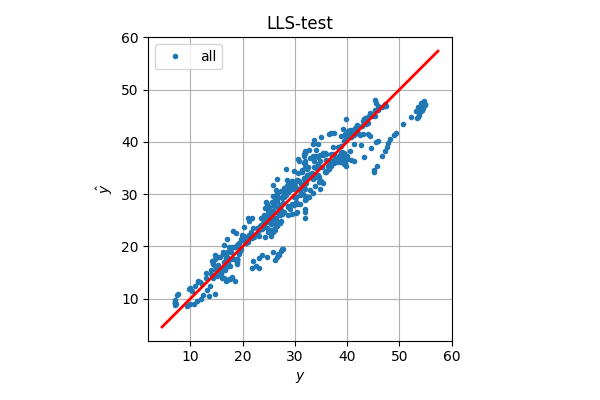
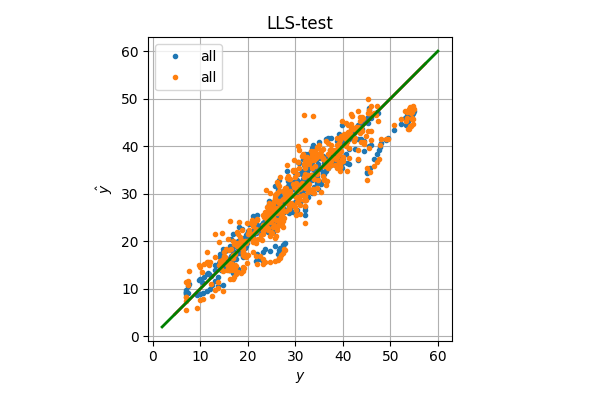
update plotregressionline

diff --git a/LAB01/sub/regression.py b/LAB01/sub/regression.py
@@ -8,8 +8,11 @@ def euclidean_distance(p, q):
   dist = np.sqrt(np.sum(np.square(p - q)))
   return dist
 
+def denormalize(y, sy, my):
+    return y*sy+my
+
 class regression:
-    def __init__(self, X, y, Ntr):
+    def __init__(self, X, y, Ntr, sy, my):
         self.Np = y.shape[0] 
         self.Ntr = Ntr
         self.Nte = self.Np - self.Ntr
@@ -21,6 +24,8 @@ class regression:
         self.y_tr=y[0:Ntr]
         self.y_te=y[Ntr:]
         self.w_hat = np.zeros((self.Nf, ), dtype=float)
+        self.sy = sy
+        self.my = my
         return
 
     def LLS(self):
@@ -49,7 +54,7 @@ class regression:
         plt.grid()
         plt.tight_layout()
         plt.savefig(f'C:\Coding\ICT_for_health\LAB01\charts\LLSvsSD_w_hat_weights')
-        plt.show()
+        #plt.show()
 
     def steepestDescent(self):
         y_tr = self.y_tr.values
@@ -78,15 +83,23 @@ class regression:
         plt.title('LLS-Error histograms using all the training dataset')
         plt.tight_layout()
         plt.savefig(f'C:\Coding\ICT_for_health\LAB01\charts\{title}')
-        plt.show()
+        #plt.show()
         return
 
     def plotRegressionLine(self, title = "LLS-yhat_vs_y.png"):
         plt.figure(figsize=(6,4))
+        self.LLS()
+        self.y_hat_te = denormalize(self.y_hat_te, self.sy, self.my)
+        self.y_te = denormalize(self.y_te, self.sy, self.my)
         plt.plot(self.y_te,self.y_hat_te,'.', label = "all")
-        plt.legend()
         v=plt.axis()
         plt.plot([v[0],v[1]],[v[0],v[1]],'r',linewidth=2)
+        self.steepestDescent()
+        self.y_hat_te = denormalize(self.y_hat_te, self.sy, self.my)
+        plt.plot(self.y_te,self.y_hat_te,'.', label = "all")
+        v=plt.axis()
+        plt.plot([v[0],v[1]],[v[0],v[1]],'g',linewidth=2)
+        plt.legend()
         plt.xlabel(r'$y$')
         plt.axis('square')
         plt.ylabel(r'$\^y$')

diff --git a/LAB01/parkinson.py b/LAB01/parkinson.py
@@ -4,9 +4,6 @@ import numpy as np
 import matplotlib.pyplot as plt
 import pandas as pd
 
-def denormalize(y, sy, my):
-    return y*sy+my
-
 x = pd.read_csv("C:\Coding\ICT_for_health\LAB01\parkinsons_updrs.csv")
 
 #Analysis of dataframe
@@ -72,9 +69,9 @@ Xsh_norm=Xsh_norm.drop(['total_UPDRS','subject#'],axis=1) #regressors only
 
 #LLS regression
 #All the features
-'''
+""" 
 r1 = myreg.regression(Xsh_norm, ysh_norm, Ntr)
-#r1.LLS("LLS-what-all.png")
+r1.plot_LLS_vs_SD()
 #r1.steepestDescent()
 
 r1.y_hat_te = denormalize(r1.y_hat_te, sy, my)
@@ -85,19 +82,15 @@ r1.y_te = denormalize(r1.y_te, sy, my)
 r1.plotHistrogram("LLS-hist_all.png")
 r1.plotRegressionLine("y_hat_vs_y-all.png")
 r1.errorsAndCoefficients()
-'''
+ """
 #Excluding Jitter:DDP and Shimmer:DDA
 Xsh_norm=Xsh_norm.drop(['Jitter:DDP', 'Shimmer:DDA'],axis=1)
-r2 = myreg.regression(Xsh_norm, ysh_norm, Ntr)
+r2 = myreg.regression(Xsh_norm, ysh_norm, Ntr, sy, my)
 
-r2.plot_LLS_vs_SD()
+#r2.plot_LLS_vs_SD()
 #r2.localRegression(200)
 
-r2.y_hat_te = denormalize(r2.y_hat_te, sy, my)
-r2.y_hat_tr = denormalize(r2.y_hat_tr, sy, my)
-r2.y_tr = denormalize(r2.y_tr, sy, my)
-r2.y_te = denormalize(r2.y_te, sy, my)
 
-r2.plotHistrogram("steepest-hist.png")
 r2.plotRegressionLine()
-r2.errorsAndCoefficients()
+pass
+#r2.plotHistrogram("steepest-hist.png")
